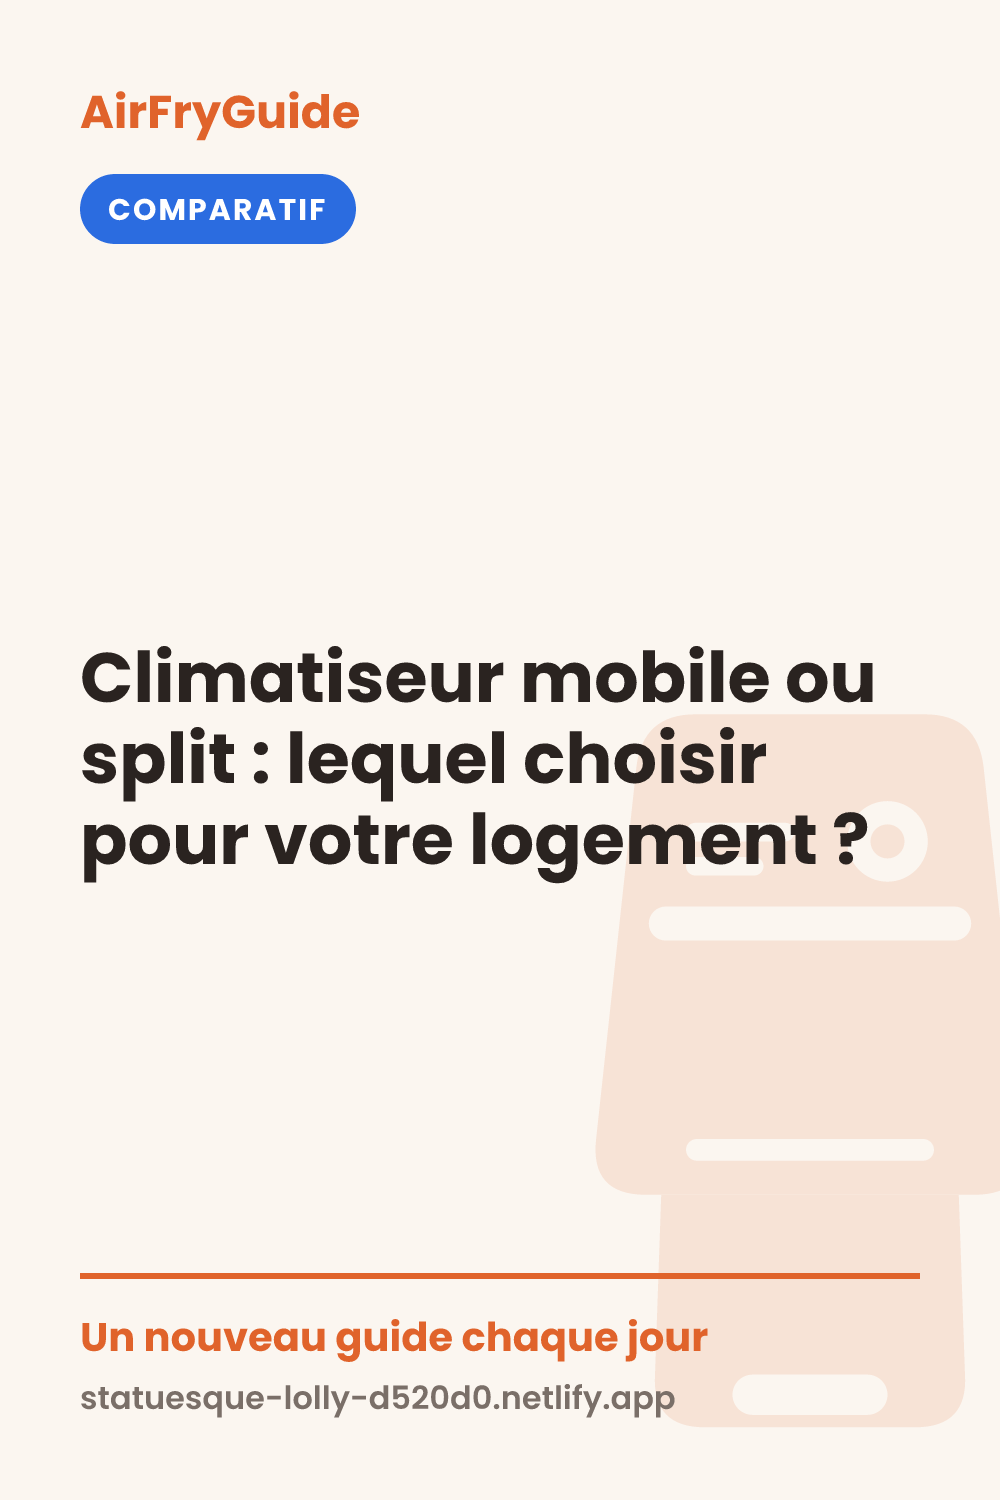
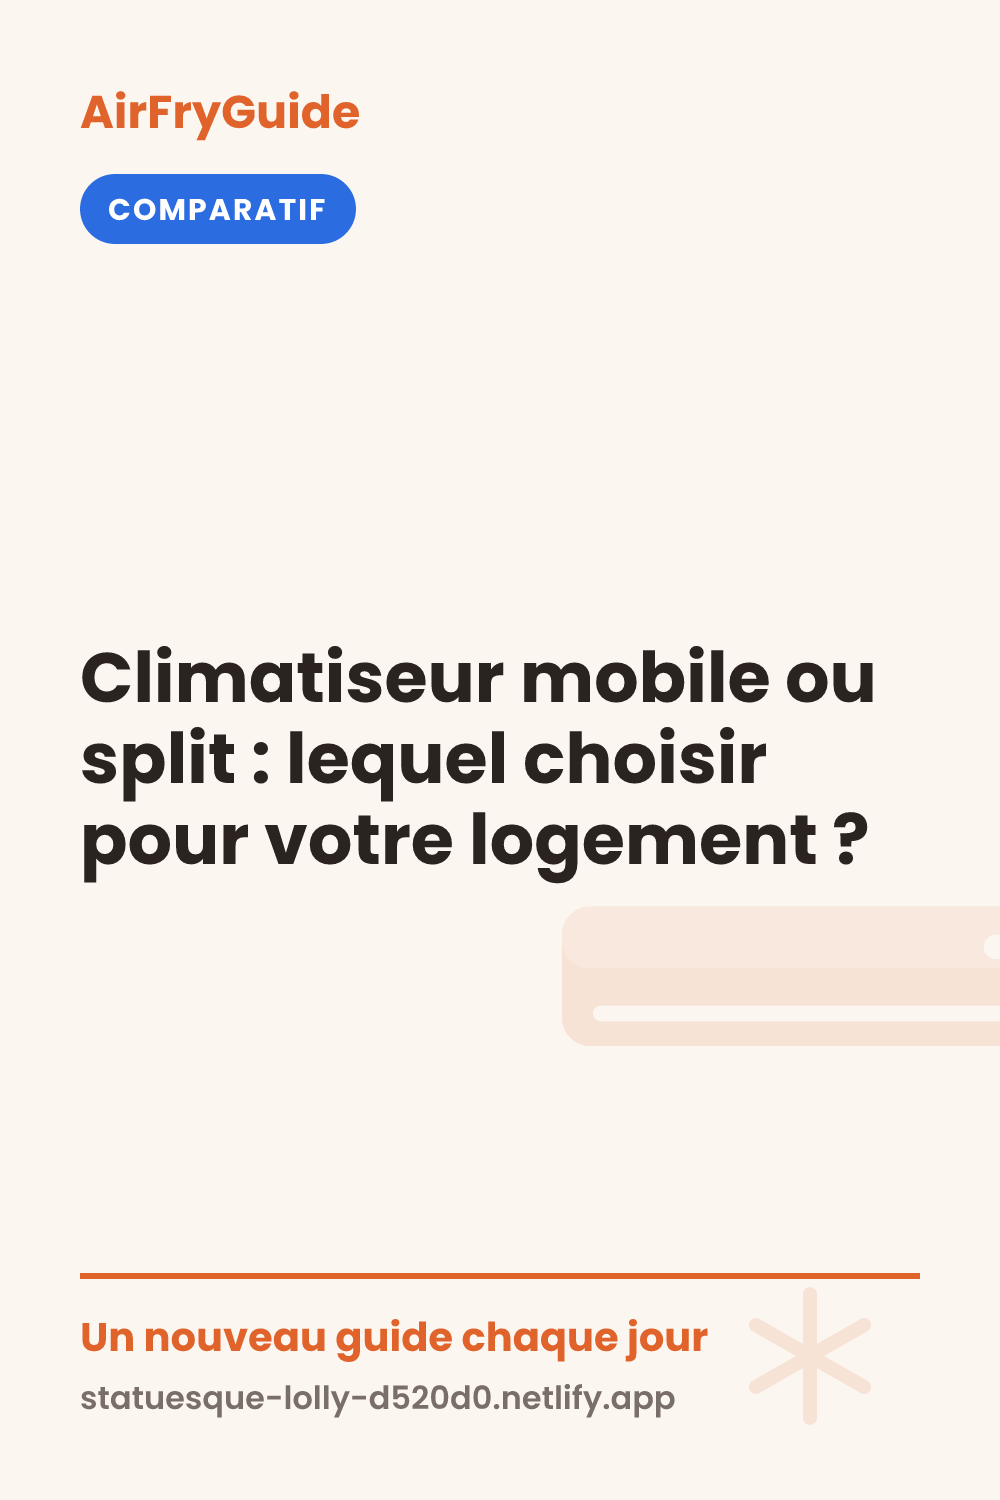
Photos produits: images sur fiches, articles (photo de tete) et vignettes accueil + illustration clim

Changed region(s): [[0.558, 0.46, 1.0, 0.9507]]

diff --git a/src/styles/global.css b/src/styles/global.css
@@ -107,6 +107,19 @@ a { color: var(--accent-dark); }
 .proscons .cons li::marker { content: "✕ "; color: #c62828; }
 @media (max-width: 520px) { .proscons { grid-template-columns: 1fr; } }
 
+.product-media { display: block; text-align: center; margin: -4px 0 14px; }
+.product-media img { max-width: 220px; width: 100%; height: auto; object-fit: contain; border-radius: 10px; background: #fff; }
+
+/* Photo de tête d'article */
+.article-lead {
+  display: block; width: 100%; max-height: 380px; object-fit: contain;
+  background: #fff; border: 1px solid var(--border); border-radius: 14px;
+  margin: 8px 0 22px; padding: 10px;
+}
+
+/* Vignette sur les cartes de l'accueil */
+.card .card-thumb { display: block; width: 100%; height: 170px; object-fit: contain; background: #fff; border-radius: 10px; margin-bottom: 12px; padding: 8px; }
+
 .btn {
   display: inline-block; background: var(--accent); color: #fff; text-decoration: none;
   font-weight: 700; padding: 12px 22px; border-radius: 999px; transition: background .15s ease;
